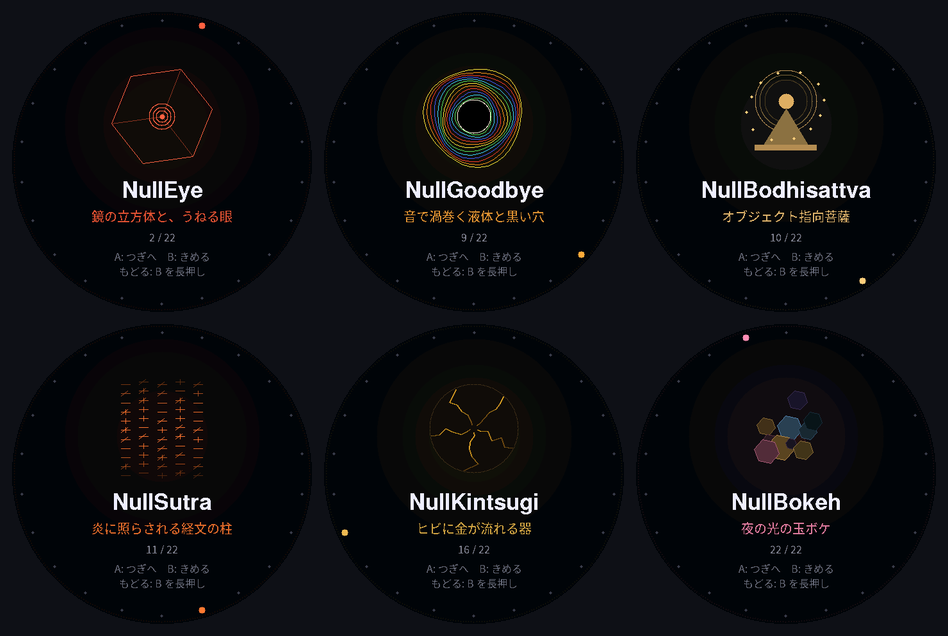
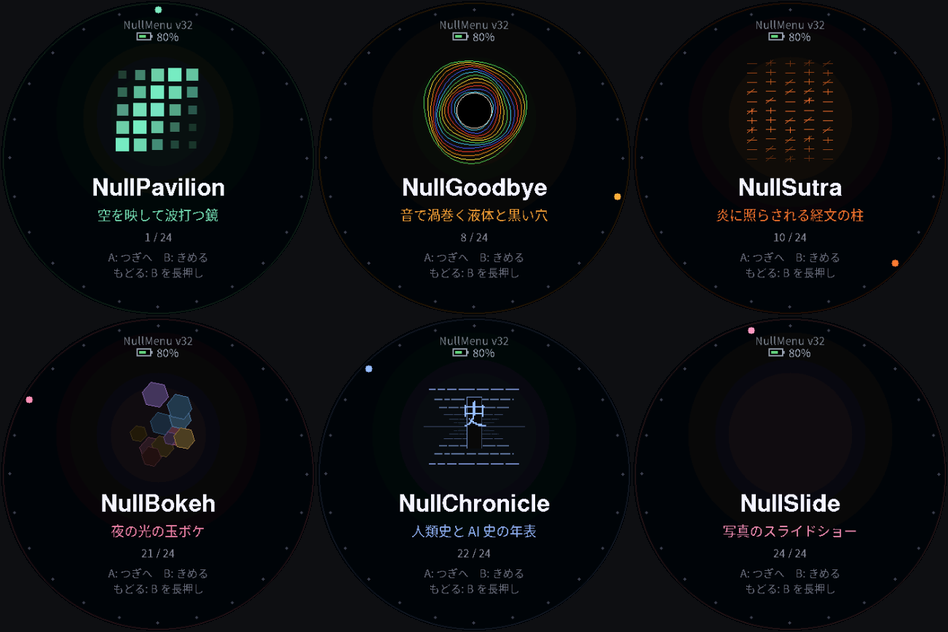
Add files via upload

diff --git a/README.md b/README.md
@@ -19,8 +19,8 @@
 
 ### ▶ ブラウザで試す
 
-**https://laughingmanjp.github.io/nullnull-Imitation-tool/**
-
+**https://ユーザー名.github.io/unofficial-null2-m5stack/**
+(リポジトリを公開して GitHub Pages を有効にすると、この URL で開けます。`ユーザー名` は GitHub のアカウント名に置き換えてください)
 
 本体がなくても、24作品ぜんぶをメニューから選んで動かせます(NullGif の GIF や NullSlide の写真も、エミュレータの中へ入れて試せます)。
 本体に書き込むのと同じ C++ を WebAssembly にしたもので、画面・ボタンA/B・タッチ・傾き(パッド、またはスマホの傾きセンサー)・マイク(NullGoodbye)が使えます。
